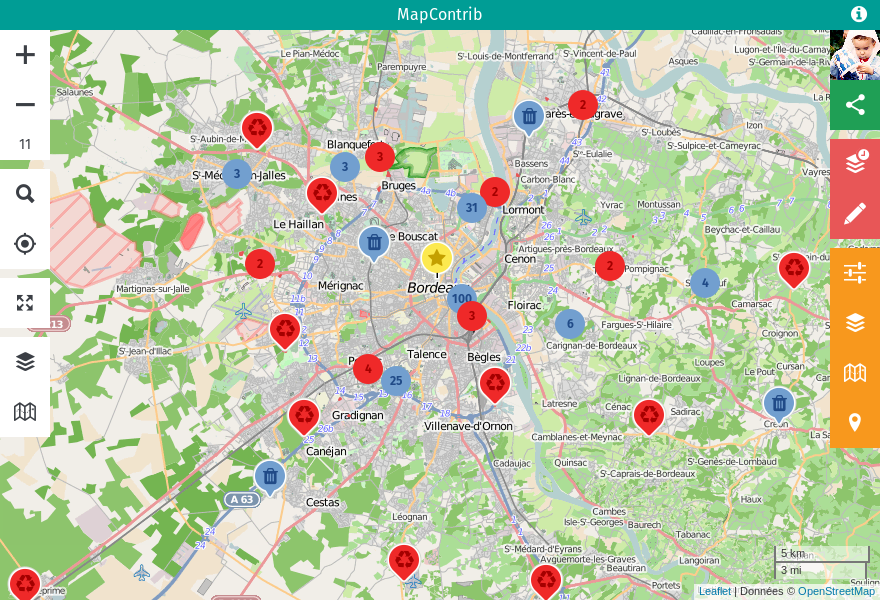
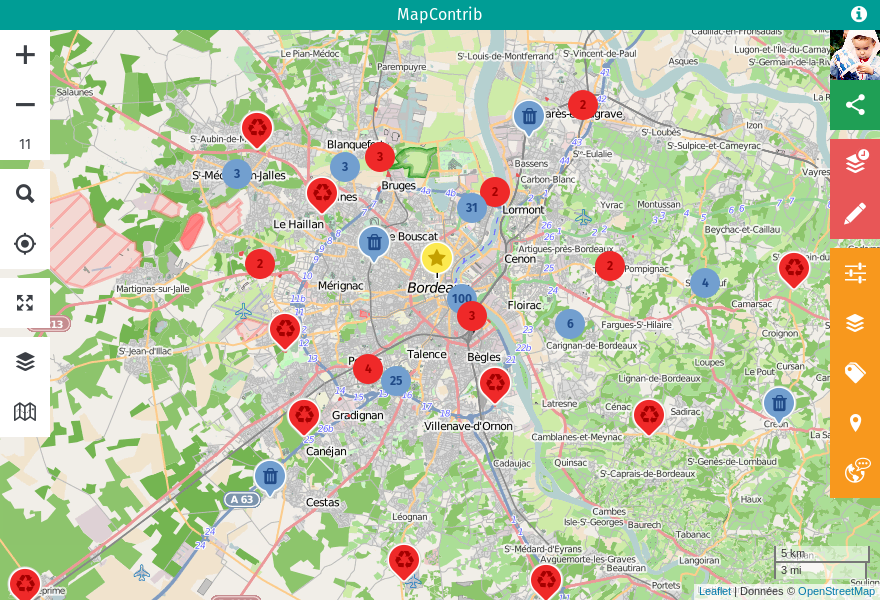
Bump version 1.0.0

diff --git a/CHANGELOG.md b/CHANGELOG.md
@@ -1,5 +1,17 @@
 # Changelog
 
+## 1.0.0
+
+* A brand new tag and preset handling, inluding iD presets.
+* The administrator can ask to not delete POI from the OverPass cache system if they are deleted from OSM (see cache archiving).
+* Heat maps can be created with point based layers.
+* The administrator can now force the use of https on his instance.
+* The columns are a bit larger.
+* Titles and zoom level are a bit bigger too.
+* Change a Mongo request in order to be compatible with Mongo 2.x.
+* Upgrade to Leaflet 1.0.1.
+* And as always, multiple bufixes and enhancement.
+
 ## 0.12.17
 
 * Fix duplicate elements when the layer cache is enabled.

diff --git a/CONTRIBUTING.md b/CONTRIBUTING.md
@@ -21,20 +21,20 @@ So thank you to make your pull requests on the `develop` branch instead of `mast
 
 Don't forget to run the Webpack based watcher by typing this command:
 
-    $ npm run watch
+    $ yarn run watch
 
 You can run the tests by runnning:
 
-    $ npm test
+    $ yarn test
 
 You can also debug your developments by using
 
-    $ npm run debug
+    $ yarn run debug
     $ # To start the Node.js debugger
 
 Or
 
-    $ DEBUG=* npm start
+    $ DEBUG=* yarn start
     $ # Works with Docker Compose too
 
 See [that great article](https://blog.risingstack.com/node-hero-node-js-debugging-tutorial) for more informations about debugging.

diff --git a/README.md b/README.md
@@ -16,9 +16,9 @@ Informations about contributing are available in the [CONTRIBUTING.md](CONTRIBUT
 
     $ git clone https://github.com/MapContrib/MapContrib.git
     $ cd MapContrib
-    $ npm install
-    $ npm run build
-    $ npm test
+    $ yarn install
+    $ yarn run build
+    $ yarn test
 
 It will install all the dependancies and test the code.
 
